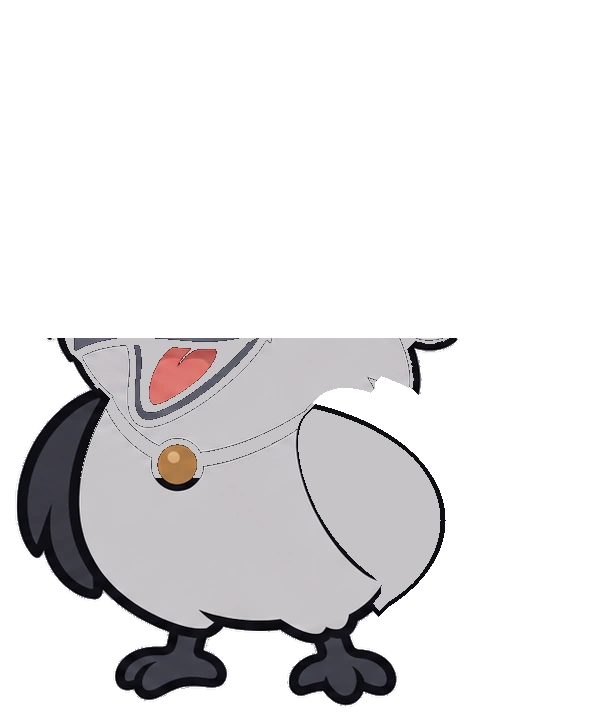
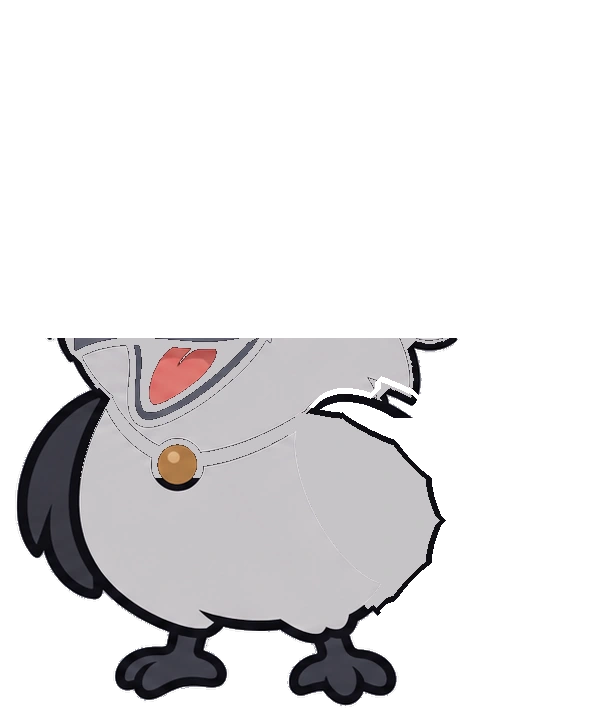
Muninn: asa com contorno contínuo (sem risco no ombro, sem traço fantasma no peito, borda do peito recortada) e piscada com pálpebra prateada, contorno do olho limpo e um cílio curvo

diff --git a/windows/src/bifrost/rig-raster.ts b/windows/src/bifrost/rig-raster.ts
@@ -9,7 +9,7 @@ import type { RigPose, Who } from "./rig";
 
 type Meta = { w: number; h: number; pivot: readonly number[]; eyes: readonly (readonly number[])[]; brow: readonly number[] | null;
   beakRoot: readonly number[] | null; shoulder: readonly number[] | null; lid: readonly number[]; ink: readonly number[];
-  sticker: readonly number[]; stickerW: number; layers: readonly string[] };
+  sticker: readonly number[]; stickerW: number; eyeFit?: readonly (readonly number[])[]; layers: readonly string[] };
 const META = ART_META as unknown as Record<Who, Meta>;
 
 const URLS: Record<string, string> = {
@@ -24,7 +24,6 @@ const URLS: Record<string, string> = {
   "muninn-eyes": new URL("./art/muninn-eyes.webp", import.meta.url).href,
   "muninn-beakLo": new URL("./art/muninn-beakLo.webp", import.meta.url).href,
   "muninn-wing": new URL("./art/muninn-wing.webp", import.meta.url).href,
-  "muninn-chest": new URL("./art/muninn-chest.webp", import.meta.url).href,
 };
 
 const imgs = new Map<string, HTMLImageElement>();
@@ -99,6 +98,38 @@ export function drawRaster(x: C2, who: Who, pose: RigPose, s: number, alpha = 1)
   const small = Math.min(...m.eyes.map((q) => q[2]));
   ge.drawImage(im("pupils"), pose.px * small * 0.3, pose.py * small * 0.25);
   const lid = Math.max(0, Math.min(1, pose.lid));
+  if (who === "muninn") {
+    // Muninn: pupilas recortadas pelo olho; a pálpebra vai numa camada própria, recortada
+    // pelo olho um tico maior (sem franja branca), com UM traço de cílio curvo.
+    ge.globalCompositeOperation = "destination-in"; ge.drawImage(im("eyes"), 0, 0);
+    ge.globalCompositeOperation = "source-over";
+    g.drawImage(e, 0, 0);
+    if (lid > 0.01 && m.eyeFit) {
+      // Pálpebra: a elipse do olho (ajustada ao contorno de fora) cheia de pena prateada,
+      // o contorno do olho redesenhado por cima no mesmo lugar e UM cílio curvo.
+      const lw = 6.5; // a mesma espessura das linhas dela (px da arte)
+      m.eyeFit.forEach(([fx, fy, a, b, ang], i) => {
+        const [cx, cy, rx, ry] = m.eyes[i];
+        const inner = new Path2D(); inner.ellipse(fx, fy, a - lw * 0.5, b - lw * 0.5, ang, 0, Math.PI * 2);
+        g.save(); g.clip(inner);
+        const xL = cx - rx - 12, xR = cx + rx + 12;
+        const yE = cy - ry - 8 + (ry * 2 + 20) * lid, sagE = ry * 0.32 * Math.min(1, lid * 1.6);
+        g.fillStyle = rgb(m.lid);
+        g.beginPath(); g.moveTo(xL, cy - ry - 16); g.lineTo(xR, cy - ry - 16); g.lineTo(xR, yE - sagE);
+        g.quadraticCurveTo(cx, yE + sagE, xL, yE - sagE); g.closePath(); g.fill();
+        const yC = cy + ry * 0.05, sagC = ry * 0.42;
+        const yl = Math.min(yE, yC), sl = Math.min(sagE, sagC);
+        g.strokeStyle = rgb(m.ink); g.lineWidth = lw; g.lineCap = "round";
+        g.beginPath(); g.moveTo(xL, yl - sl); g.quadraticCurveTo(cx, yl + sl, xR, yl - sl); g.stroke();
+        g.restore();
+        // o contorno do olho, inteiro e limpo, por cima da borda da pálpebra
+        g.save(); g.globalAlpha *= Math.min(1, lid * 2.5);
+        g.strokeStyle = rgb(m.ink); g.lineWidth = lw;
+        g.beginPath(); g.ellipse(fx, fy, a - lw * 0.5, b - lw * 0.5, ang, 0, Math.PI * 2); g.stroke();
+        g.restore();
+      });
+    }
+  } else {
   if (lid > 0.01) {
     for (const [cx, cy, rx, ry] of m.eyes) {
       // A borda de baixo da pálpebra é o arco de cima do próprio olho, descido: acompanha a curva.
@@ -116,6 +147,7 @@ export function drawRaster(x: C2, who: Who, pose: RigPose, s: number, alpha = 1)
   ge.globalCompositeOperation = "destination-in"; ge.drawImage(im("eyes"), 0, 0);
   ge.globalCompositeOperation = "source-over";
   g.drawImage(e, 0, 0);
+  }
   // Sobrancelha do Huginn (a direita, o "entendi"): sobe e gira um tico.
   if (m.brow) {
     const [bx, by] = m.brow;
@@ -129,7 +161,6 @@ export function drawRaster(x: C2, who: Who, pose: RigPose, s: number, alpha = 1)
     const [sx, sy] = m.shoulder;
     const wa = -Math.max(-0.1, Math.min(RASTER_LIMITS.wing, pose.wingR * 0.25));
     g.save(); g.translate(0, rise * 0.5); g.translate(sx, sy); g.rotate(wa); g.translate(-sx, -sy); g.drawImage(im("wing"), 0, 0); g.restore();
-    g.save(); g.translate(0, rise * 0.5); g.drawImage(im("chest"), 0, 0); g.restore();
   }
 
   // Reduz em meias etapas até perto do tamanho final (nítido em ícones pequenos).

diff --git a/windows/src/bifrost/art/meta.ts b/windows/src/bifrost/art/meta.ts
@@ -1,2 +1,2 @@
 // GERADO por tools/cut-ravens.py (camadas recriadas da referência).
-export const ART_META = {"huginn": {"w": 588, "h": 763, "pivot": [300, 448], "eyes": [[348.3, 281.5, 55.0, 47.5], [505.1, 300.7, 24.0, 39.0]], "brow": [501.0443275732532, 228.82494365138993], "beakRoot": null, "shoulder": null, "lid": [48, 48, 56], "ink": [16, 15, 21], "sticker": [177, 179, 187], "stickerW": 7.0, "layers": ["base", "head", "pupils", "eyes", "brow"]}, "muninn": {"w": 591, "h": 721, "pivot": [210, 418], "eyes": [[134.8, 220.9, 28.5, 37.5], [278.9, 276.8, 48.0, 50.5]], "brow": null, "beakRoot": [245.0, 344.0], "shoulder": [325.0, 428.0], "lid": [199, 195, 199], "ink": [15, 14, 19], "sticker": [177, 178, 187], "stickerW": 7.0, "layers": ["base", "head", "pupils", "eyes", "beakLo", "wing", "chest"]}} as const;
+export const ART_META = {"huginn": {"w": 588, "h": 763, "pivot": [300, 448], "eyes": [[348.3, 281.5, 55.0, 47.5], [505.1, 300.7, 24.0, 39.0]], "brow": [501.0443275732532, 228.82494365138993], "beakRoot": null, "shoulder": null, "lid": [48, 48, 56], "ink": [16, 15, 21], "sticker": [177, 179, 187], "stickerW": 7.0, "eyeFit": [[348.1, 280.7, 55.2, 62.6, 1.677], [504.9, 300.3, 31.5, 46.6, 3.051]], "layers": ["base", "head", "pupils", "eyes", "brow"]}, "muninn": {"w": 591, "h": 721, "pivot": [210, 418], "eyes": [[134.8, 220.9, 28.5, 37.5], [278.9, 276.8, 48.0, 50.5]], "brow": null, "beakRoot": [245.0, 344.0], "shoulder": [325.0, 428.0], "lid": [199, 195, 199], "ink": [15, 14, 19], "sticker": [177, 178, 187], "stickerW": 7.0, "eyeFit": [[135.3, 220.3, 28.1, 49.0, 0.512], [280.2, 274.0, 52.5, 57.4, 0.412]], "layers": ["base", "head", "pupils", "eyes", "beakLo", "wing"]}} as const;

diff --git a/windows/tools/cut-ravens.py b/windows/tools/cut-ravens.py
@@ -144,25 +144,32 @@ for who, cfg in CFG.items():
         ex, ey, erx, ery = cfg["bodyEll"]
         bodyM = (cls == "body") & (yy > cut - 10)
         Lx = np.full(H, -1)
-        behind = (((xx - ex) / erx) ** 2 + ((yy - ey) / ery) ** 2 <= 1) | (art & ~wmO & (yy > cut))
+        # borda do peito com "penas" (recortada como no desenho, não uma linha lisa)
+        th = np.arctan2((yy - ey) / ery, (xx - ex) / erx)
+        rr = np.hypot((xx - ex) / erx, (yy - ey) / ery)
+        bump = 1 - 0.035 * np.abs(np.sin(th * 9)) ** 0.6
+        behind = (rr <= bump) | (art & ~wmO & (yy > cut))
         behind &= (yy < 650)
         behind = nd.binary_opening(nd.binary_closing(behind, iterations=6), iterations=3)
         hole = wmO & behind
         Bc[hole] = body
-        ring = behind & ~nd.binary_erosion(behind, iterations=5) & wmO
+        # o traço de dentro da asa (asa/peito) que sobrava no peito: vira pena
+        ghost = behind & nd.binary_dilation(wmO, iterations=10) & (L < body.mean() - 18) & ~nd.binary_dilation(~behind, iterations=7)
+        Bc[ghost] = body
+        ring = behind & ~nd.binary_erosion(behind, iterations=6) & wmO
         Bc[ring] = ink
         bA = np.where(wmO, np.where(behind, 1.0, 0.0), bA)
         bA = np.where(ring, 1.0, bA)
         bA = np.where(nd.binary_dilation(wmO, iterations=6) & ~behind & ((yy < 660) | (xx > 410)), 0, bA)
-        layers["wing"] = (C.copy(), A * (wmO & ~(behind & ~nd.binary_dilation(wm, iterations=8))))
+        wtop = np.where(wm)[0].min()
+        dW = nd.distance_transform_edt(~wm)
+        wingA = A * (wmO & ~(behind & ~nd.binary_dilation(wm, iterations=8)) & (yy >= wtop - 14) & ~headM & ((xx > 380) | (dW <= 9)))
+        layers["wing"] = (C.copy(), wingA)
+        bA = np.where((wmO & (yy < wtop - 14)) | (wmO & headM), A, bA)
         # pivô do ombro: o canto de cima, por dentro (escondido pelo peito)
         ys, xs = np.where(wm)
         top = ys.min(); xsTop = xs[ys < top + 30]
         shoulder = [float(xsTop.min() + 18), float(top + 26)]
-        # sobreposição do peito: penas do peito que ficam por cima da raiz da asa
-        sx, sy = shoulder
-        chest = behind & (((xx - sx) ** 2 + (yy - sy) ** 2) < 46 ** 2) & (xx < sx + 10) & ~wm & art
-        layers["chest"] = (Bc.copy(), chest.astype(np.float32))
     headA = A * headM
     if "beakLo" in layers: headA = np.maximum(headA, A * layers["beakLo"][1] * 0)  # (o bico vem por cima)
     save(f"{who}-base", bleed(Bc, bA), bA)
@@ -171,12 +178,19 @@ for who, cfg in CFG.items():
     save(f"{who}-pupils", Pc, pupA)
     save(f"{who}-eyes", np.full_like(C, 255), eyeAll.astype(np.float32))
     for k, (cc, aa) in layers.items(): save(f"{who}-{k}", bleed(cc, aa), aa)
+    fits = []
+    for e in eyes:
+        # elipse ajustada ao contorno de fora do olho (o traço de tinta incluso)
+        ring = nd.binary_fill_holes(nd.binary_dilation(e, iterations=2) | (nd.binary_dilation(e, iterations=9) & (cls == "ink")))
+        cs, _ = cv2.findContours(ring.astype(np.uint8), cv2.RETR_EXTERNAL, cv2.CHAIN_APPROX_NONE)
+        (fx, fy), (fw, fh), fa = cv2.fitEllipse(max(cs, key=len))
+        fits.append([round(fx, 1), round(fy, 1), round(fw / 2, 1), round(fh / 2, 1), round(float(np.deg2rad(fa)), 3)])
     ein = []
     for e in eyes:
         ys, xs = np.where(e)
         ein.append([round(float(xs.mean()), 1), round(float(ys.mean()), 1), float((xs.max() - xs.min()) / 2), float((ys.max() - ys.min()) / 2)])
     meta[who] = {"w": W, "h": H, "pivot": list(cfg["pivot"]), "eyes": ein, "brow": browInfo, "beakRoot": beakRoot, "shoulder": shoulder,
                  "lid": [int(v) for v in P["body"]], "ink": list(P["ink"]), "sticker": list(P["sticker"]), "stickerW": max(7.0, round(sw, 1)),
-                 "layers": ["base", "head", "pupils", "eyes"] + list(layers)}
+                 "eyeFit": fits, "layers": ["base", "head", "pupils", "eyes"] + list(layers)}
     print(who, meta[who]["layers"], "adesivo", max(7.0, round(sw, 1)), "ombro", shoulder)
 open(os.path.join(OUT, "meta.ts"), "w").write("// GERADO por tools/cut-ravens.py (camadas recriadas da referência).\nexport const ART_META = " + json.dumps(meta) + " as const;\n")
